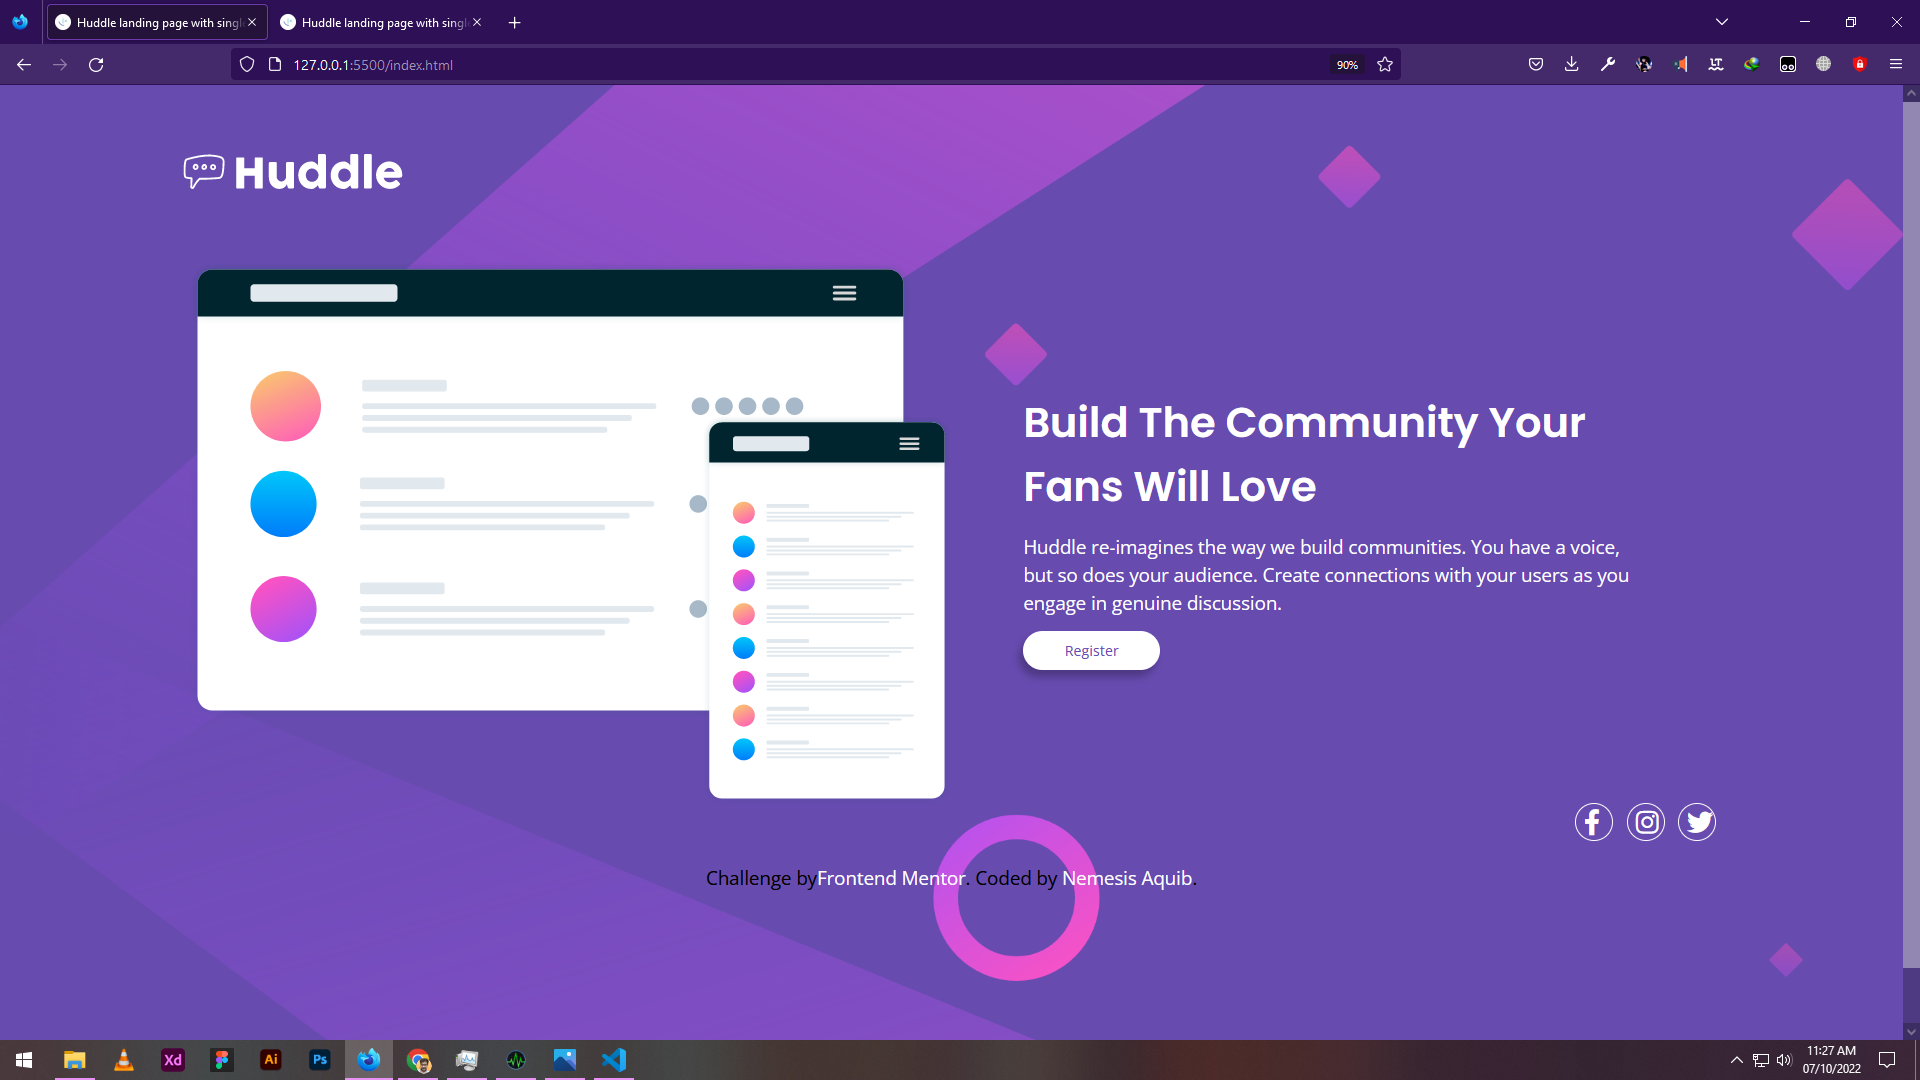
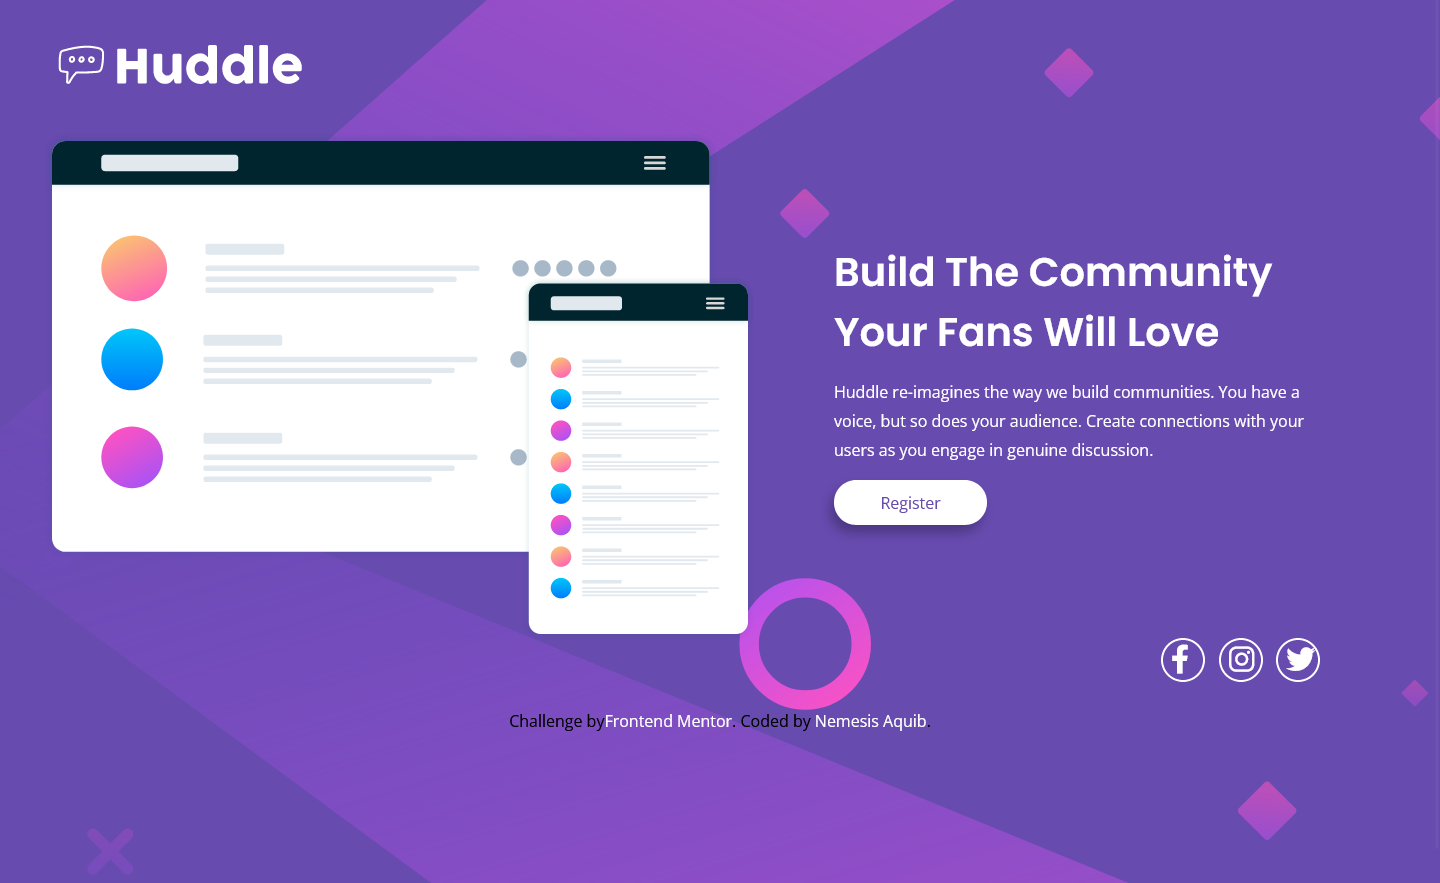
Intail commit

diff --git a/style.css b/style.css
@@ -33,58 +33,52 @@ body{
 
 
 header{
-    margin-top: 4rem;
-    margin-bottom: 4rem;
-    margin-left: 12rem;
+    margin: 2rem 0; 
+   
 }
 
 .logo{
     max-width: 100%;
 }
 .container{
-    width: 1440px;
-    /* height: 100vh; */
+    width: 1350px;
+    height: 100vh;
     margin: 0 auto ;
     
 }
 
 .content{
+    /* min-height: 80vh; */
     display: flex;
     justify-content: space-between;
     align-items: center;
 
 }
 
-.left{
-    width: 50%;
 
-}
 
 picture{
     max-width: 100%;
 }
 
-.img{
-    width: 100%;
+
+
+.right{
+    padding: 5rem;
+    color:#ffffff;
 }
 
-
 h1{
-    font-size:2.9rem;
+    font-size:2.5rem;
     font-family: var(--font-Headings);
     padding-bottom: 1rem;
 }
 
 
-.right{
-    padding: 5rem;
-    width: 50%;
-    color:#ffffff;
-}
 
 p{
-    font-size:1.3rem;
-    line-height:1.5;
+    font-size:1rem;
+    line-height:1.8;
 }
 
 .btn{
@@ -94,7 +88,7 @@ p{
 
 a{
     text-decoration: none;
-    background: red;
+    
 }
 
 a{
@@ -124,7 +118,7 @@ a{
        display: flex;
        justify-content: flex-end;
        align-items: center;
-
+        margin-right: 5rem;
     }
 
     i{
@@ -196,11 +190,8 @@ a{
            
         }
 
-        header{
-            margin: 3rem 0 5rem 0;
-        }
 
-        picture{
+        picture img{
           width: 100%;
         }
         
@@ -220,13 +211,12 @@ a{
             font-size: 2rem;
         }
 
-        
-        .left{
-            width: 100%;
-        } 
+        p{
+            font-size:1.3rem;
+        }
+       
 
         .right{
-            width: 100%;
             padding: 0;
             margin:  0;
           
@@ -234,16 +224,16 @@ a{
 
 
         .icon{
-        
+            display: flex;
            justify-content: center;
-            align-items: center;
-            margin-top: 5rem;
+          
+            margin: 5rem 0;
         }
 
         .attribution{
             text-align: center;
             flex-direction: column;
-            
+            font-size: 1rem;
         }
 
         .a{
@@ -252,29 +242,6 @@ a{
        
       }
 
-      @media only screen and (max-width: 1440px) {
-
-      
-header{
-    margin-top: 2rem;
-    margin-bottom: 2rem;
-    margin-left: 1rem;
-}
 
 
 
-        picture {
-          width: 100%;
-        }
-
-
-
-        .icon{
-        
-            justify-content: flex-end;
-            margin:2rem;
-            
-     
-         }
-
-      }

diff --git a/index.html b/index.html
@@ -16,16 +16,16 @@
 <body>
 
 
-  <header>
-  <img class="logo"  src="images/logo.svg" alt="">
-  </header>
 
   <main>
-
+   
       <div class="container">
-
+        <header>
+          <img class="logo"  src="images/logo.svg" alt="">
+          </header>
+       
         <div class="content">
-
+         
         <div class="left">
             <picture>
               <img class="img" src="images/illustration-mockups.svg" alt="">
@@ -55,17 +55,18 @@
         <i class="fa-brands fa-instagram"></i>
         <i class="fa-brands fa-twitter"></i>
       </div>
+      <footer>
+        <p class="attribution">
+          Challenge by<a class="a" href="https://www.frontendmentor.io?ref=challenge" target="_blank" rel="noopener">Frontend Mentor</a>. 
+          Coded by <a class="a" href="https://www.frontendmentor.io/profile/nemesisaquib" target="_blank" rel="noopener">Nemesis Aquib</a>.
+        </p>
+      </footer>
       </div>
-
+    
   </main>
   
 
 
-  <footer>
-    <p class="attribution">
-      Challenge by<a class="a" href="https://www.frontendmentor.io?ref=challenge" target="_blank" rel="noopener">Frontend Mentor</a>. 
-      Coded by <a class="a" href="https://www.frontendmentor.io/profile/nemesisaquib" target="_blank" rel="noopener">Nemesis Aquib</a>.
-    </p>
-  </footer>
+
 </body>
 </html>
